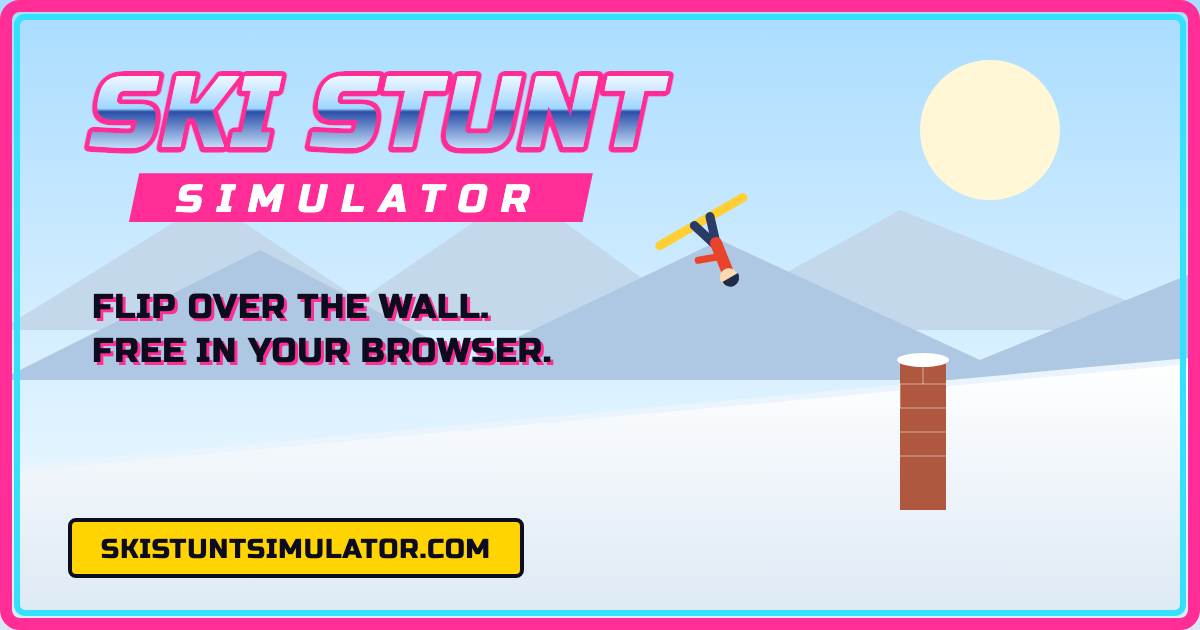
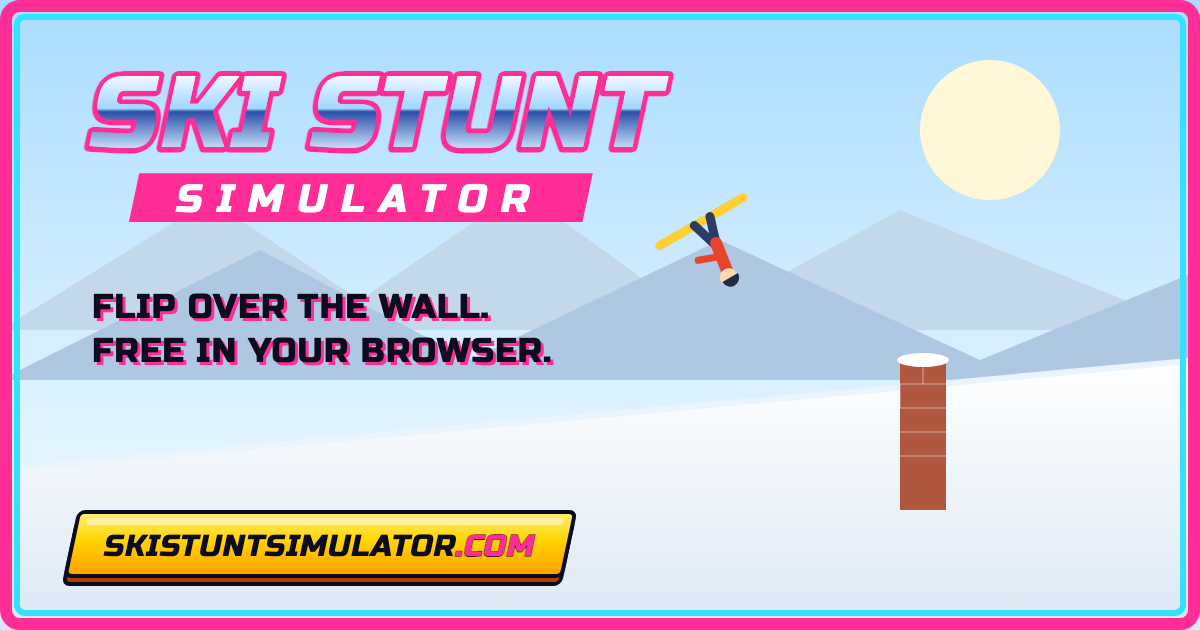
Link preview: restyle the URL as a slanted arcade button

Changed region(s): [[0.0308, 0.7841, 0.4933, 0.9349]]

diff --git a/index.html b/index.html
@@ -29,8 +29,8 @@
 <meta property="og:title" content="Ski Stunt Simulator — Free Online Ski Jump &amp; Flip Game" />
 <meta property="og:description" content="Bomb down the hill, hit the ramp, and flip over the wall. Time your crouch, tuck, and lean to land backflips and front flips. Play free in your browser." />
 <meta property="og:url" content="https://skistuntsimulator.com/" />
-<meta property="og:image" content="//skistuntsimulator.com/og-image.png?v=2" />
-<meta property="og:image:secure_url" content="https://skistuntsimulator.com/og-image.png?v=2" />
+<meta property="og:image" content="//skistuntsimulator.com/og-image.png?v=3" />
+<meta property="og:image:secure_url" content="https://skistuntsimulator.com/og-image.png?v=3" />
 <meta property="og:image:type" content="image/png" />
 <meta property="og:image:width" content="1200" />
 <meta property="og:image:height" content="630" />
@@ -40,7 +40,7 @@
 <meta name="twitter:card" content="summary_large_image" />
 <meta name="twitter:title" content="Ski Stunt Simulator — Free Online Ski Jump &amp; Flip Game" />
 <meta name="twitter:description" content="Bomb down the hill, hit the ramp, and flip over the wall. Play free in your browser." />
-<meta name="twitter:image" content="//skistuntsimulator.com/og-image.png?v=2" />
+<meta name="twitter:image" content="//skistuntsimulator.com/og-image.png?v=3" />
 
 <!-- Structured data -->
 <script type="application/ld+json">
@@ -49,7 +49,7 @@
   "@type": "VideoGame",
   "name": "Ski Stunt Simulator",
   "url": "https://skistuntsimulator.com/",
-  "image": "https://skistuntsimulator.com/og-image.png?v=2",
+  "image": "https://skistuntsimulator.com/og-image.png?v=3",
   "description": "A free online ski stunt game — ski down the hill, launch off the ramp, and flip over the wall. Time your crouch, tuck and lean to land backflips and front flips.",
   "genre": ["Sports", "Arcade", "Physics"],
   "gamePlatform": "Web browser",
